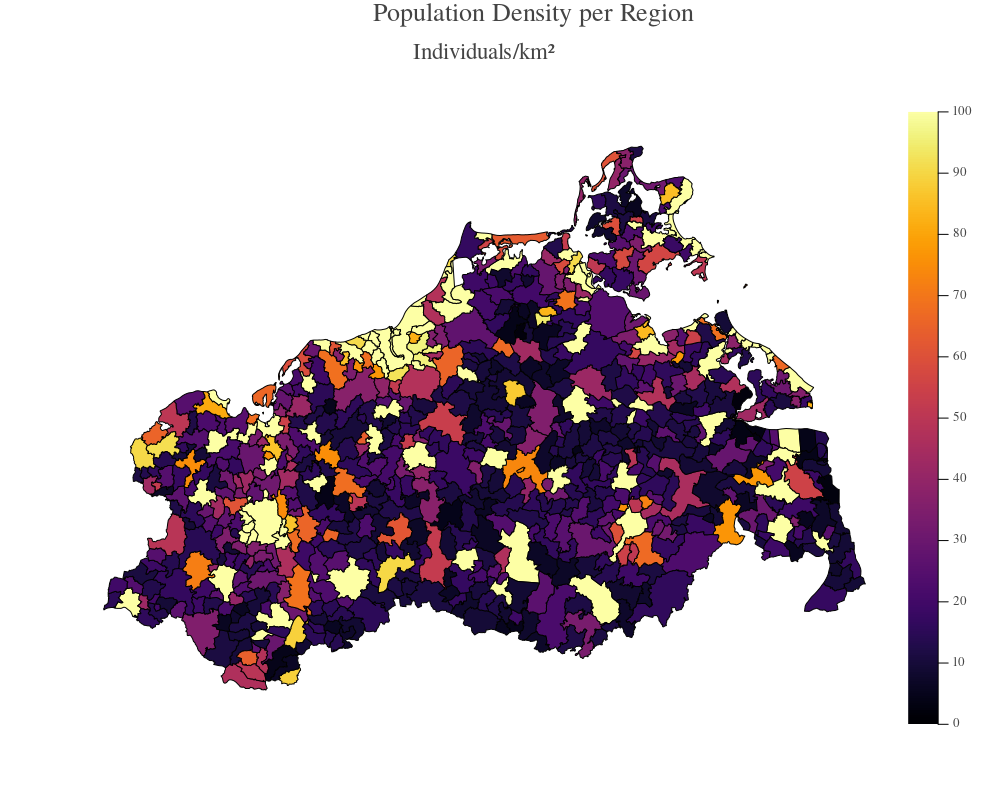
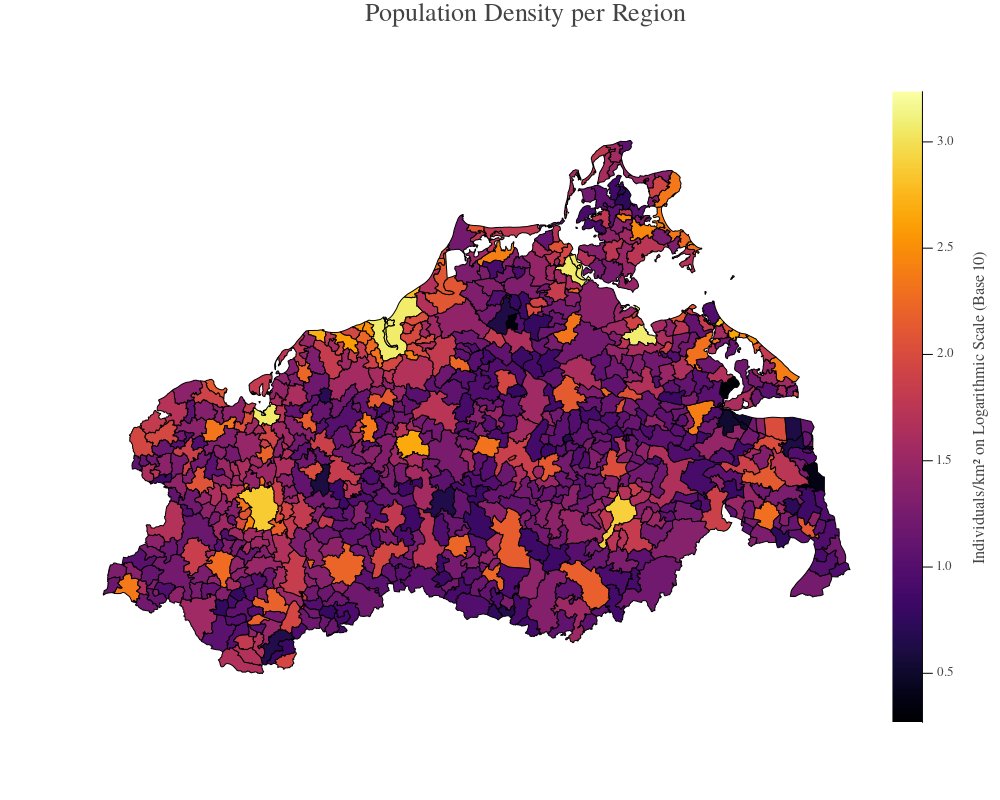
incremental updates to plotting tutorials

Changed region(s): [[0.093, 0.0938, 0.992, 0.9062], [0.372, 0.0, 0.713, 0.0312], [0.403, 0.0625, 0.558, 0.0938]]

diff --git a/docs/src/tut_plotting.md b/docs/src/tut_plotting.md
@@ -91,7 +91,7 @@ If you try to plot any `gemsmap` for the first time, it will trigger the downloa
 ```julia
 using GEMS
 sim = Simulation(population = "MV")
-gemsmap(sim, type = :PopDensityMap, clims = (0, 100))
+gemsmap(sim, type = :PopDensityMap)
 ```
 
 **Plot**
@@ -198,10 +198,10 @@ rd = ResultData(sim)
 # pass as many plots to the "plot" functions as you want
 plot(
     histogram(ages, xlabel = "Age", ylabel = "Number of Individuals", label = "Individuals per Age"),
-    gemsmap(sim, type = :PopDensityMap, clims = (0, 100)),
+    gemsmap(sim, type = :PopDensityMap, top_margin = -8Plots.mm, bottom_margin = -8Plots.mm),
     gemsplot(rd, type = :CumulativeCases, xlims = (0, 100)),
     layout = (3, 1),
-    size = (400, 1000)
+    size = (600, 1000)
 )
 ```
 
@@ -212,6 +212,9 @@ plot(
     <img src="../assets/tutorials/tut_plotting_combined.png" width="60%"/>
 </p>
 ``` 
+
+The `top_margin` and `bottom_margin` keywords in the example are used to arrange subplots.
+Please look up the `Plots.jl` package's documentation to learn more.
 
 
 ## Saving Plots
